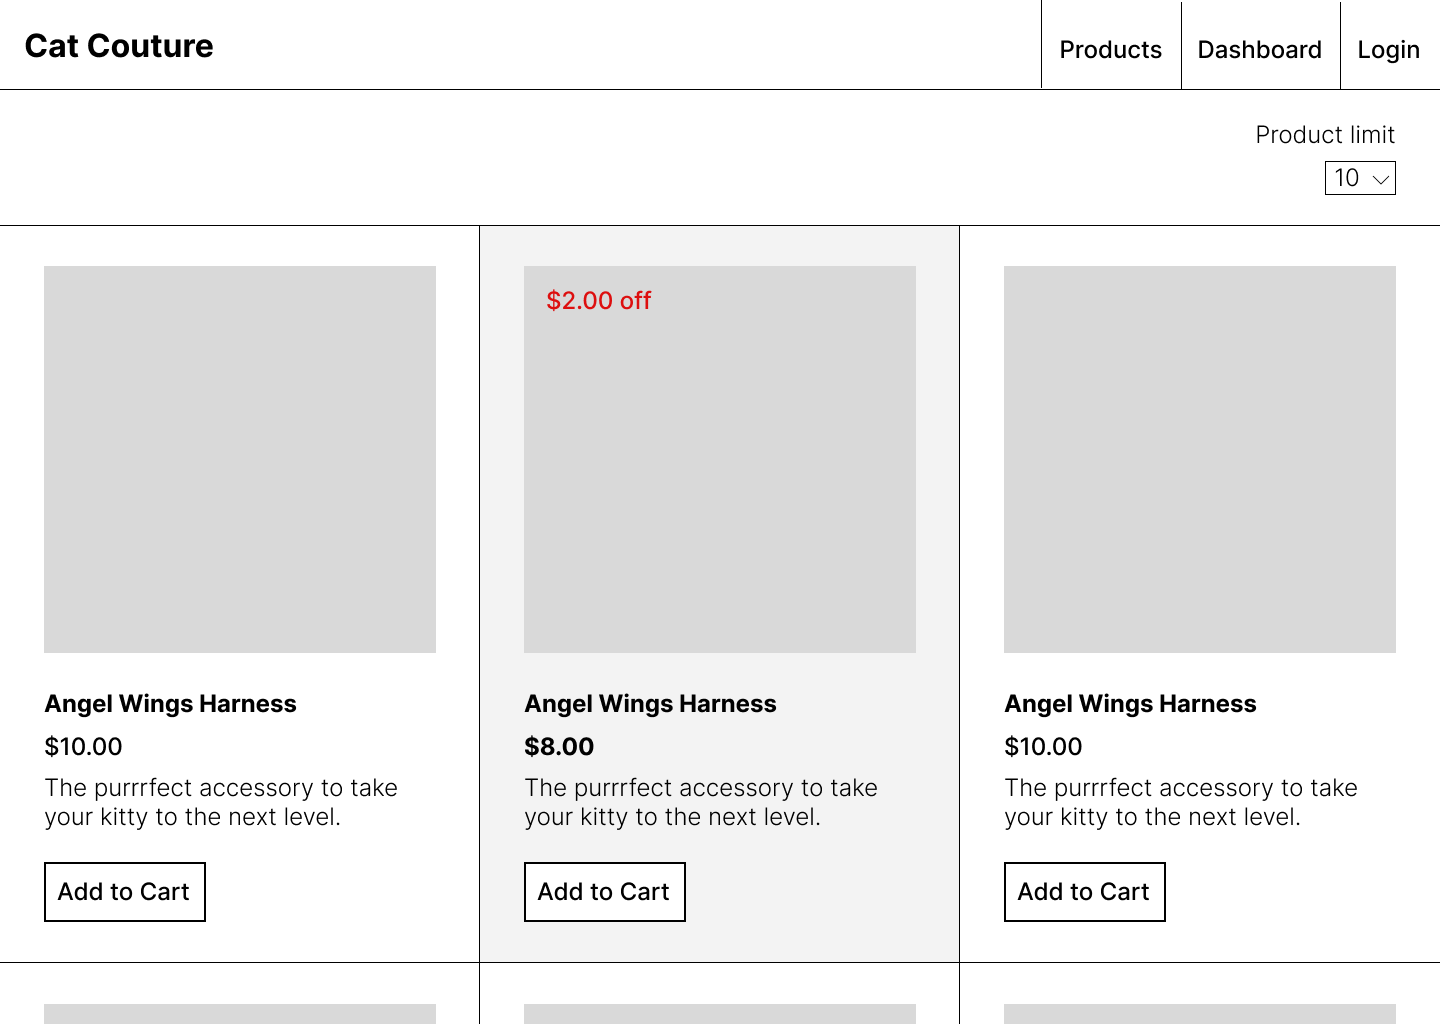
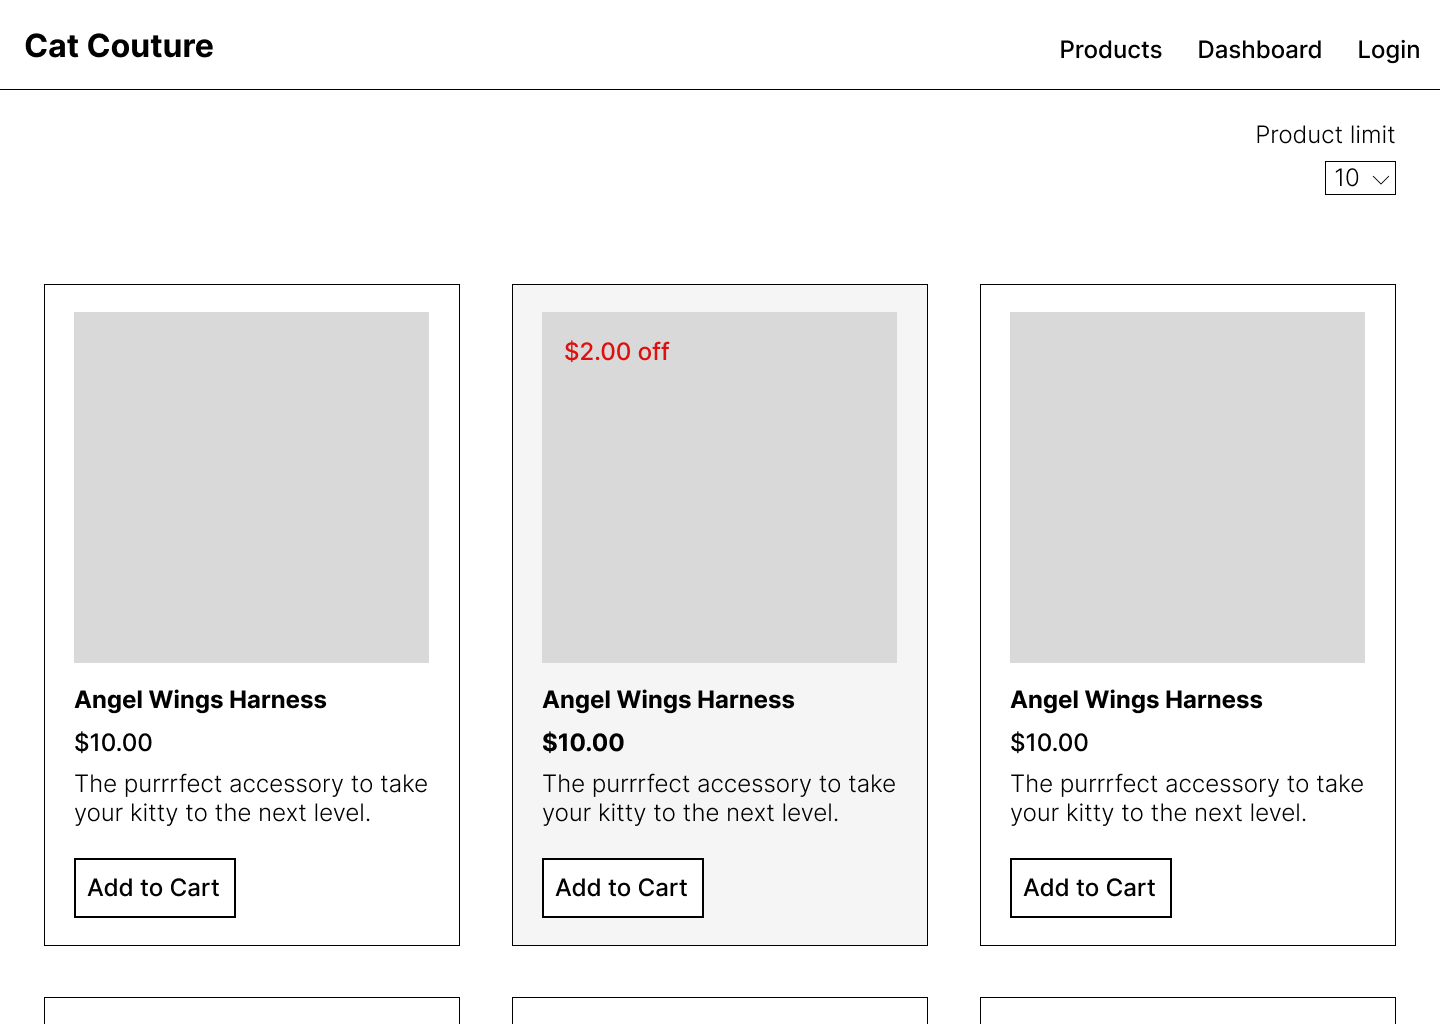
Made some small changes to wireframes. Wireframes now include a footer

diff --git a/client/src/components/Header.css b/client/src/components/Header.css
@@ -1,12 +1,8 @@
 .header {
-  display: flex;
-  width: 100%;
-  justify-content: center;
   margin-top: 1rem;
 }
 .header .logo {
-  font-size: 3rem;
-  margin: 2rem 0rem;
+  font-size: 2rem;
 }
 
 .rightLinkItems {
@@ -20,19 +16,14 @@
   padding-left: 0.5rem;
   padding-right: 0.5rem;
 }
+
 .activeLink {
   color: #0ea68c;
 }
 
 .rightLinks {
-  display: flex;
-}
-
-.nav {
-  width: 100%;
-  background-color: #eeeeee;
-  display: flex;
-  justify-content: space-between;
+  display: grid;
+  grid-template-columns: 1fr 1fr 1fr;
 }
 
 .navButton {

diff --git a/client/src/index.css b/client/src/index.css
@@ -16,7 +16,7 @@ code {
   padding-right: 1rem;
 }
 .section-padding {
-  padding-top: 1rem;
+  padding-top: 0.5rem;
   padding-bottom: 1rem;
 }
 
